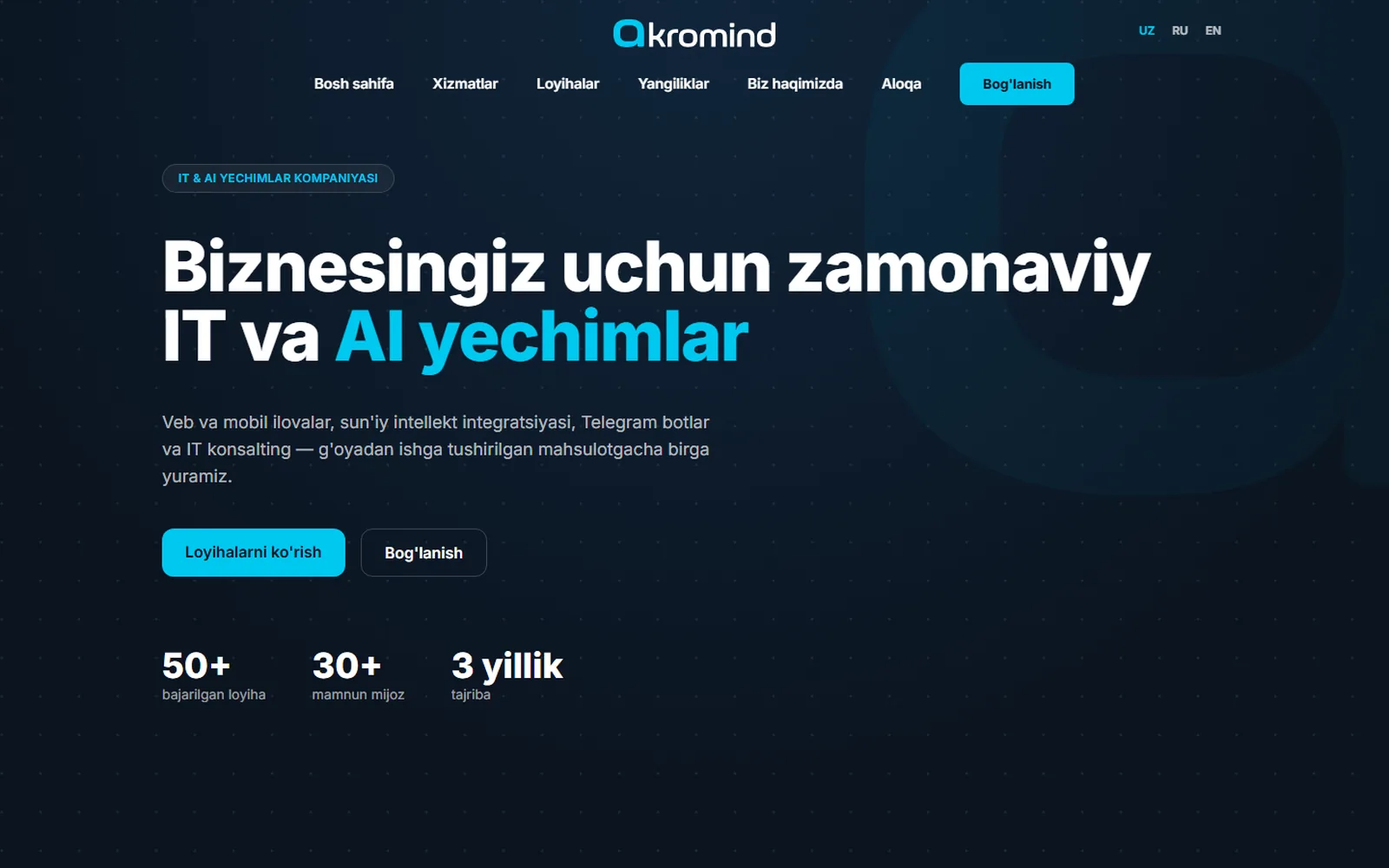
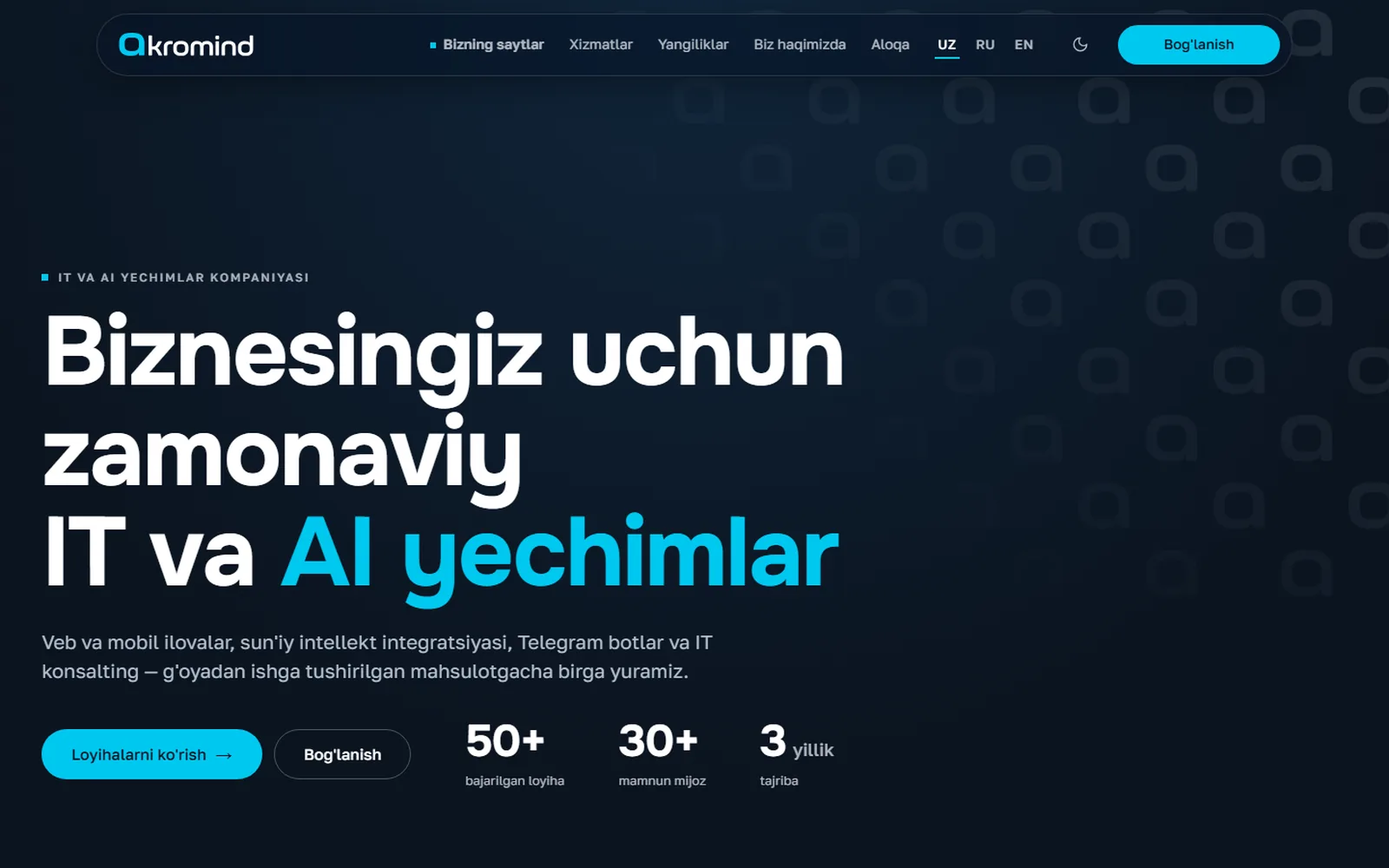
Akromind yangilandi; tugma va ikonkalar uchun Akromind uslubidagi hover animatsiyalari
- Akromind loyihasi yangi saytga moslandi (status faol, Next.js 14, 3 til, kun/tun, reestr, forma), yangi skrinshotlar
- Tugmalar: chapdan to'ldiruvchi rang, strelka siljishi, bosilganda kichrayish, magnit effekti
- Mavzu tugmasi aylanadi; menyu va footer havolalari tagiga chiziq yuguradi; xizmat va aloqa ikonkalari qimirlaydi

diff --git a/core/static/core/css/style.css b/core/static/core/css/style.css
@@ -50,6 +50,7 @@
   --font-mono: 'JetBrains Mono', ui-monospace, 'SFMono-Regular', Menlo, monospace;
   --nav-h: 92px;
   --container: 1120px;
+  --ease: cubic-bezier(0.22, 1, 0.36, 1);
 }
 
 /* ===== Asos ===== */
@@ -84,19 +85,33 @@ h1, h2, h3 { font-family: var(--font-display); line-height: 1.15; letter-spacing
 
 /* ===== Tugmalar ===== */
 .btn {
+  position: relative; isolation: isolate; overflow: hidden;
   display: inline-flex; align-items: center; justify-content: center; gap: 8px;
   min-height: 44px; padding: 10px 22px; border-radius: 999px;
   font-weight: 600; font-size: 15px; line-height: 1.2;
   border: 1px solid transparent; cursor: pointer;
-  transition: transform .2s ease, background-color .2s ease, border-color .2s ease, color .2s ease;
+  --sweep: var(--text); --sweep-ink: var(--bg);
+  transition: transform .4s var(--ease), color .35s var(--ease), border-color .3s;
 }
+/* Ustiga borganda chapdan o'ngga rang yugurib o'tadi (Akromind uslubi) */
+.btn::before {
+  content: ''; position: absolute; inset: 0; z-index: -1; background: var(--sweep);
+  transform: scaleX(0); transform-origin: left; transition: transform .45s var(--ease);
+}
+.btn:hover::before, .btn:focus-visible::before { transform: scaleX(1); }
+.btn:hover, .btn:focus-visible { color: var(--sweep-ink); }
+.btn:active { transform: scale(.97); }
+.btn[data-mag-on] { transition: transform .12s linear, color .35s var(--ease), border-color .3s; }
+.btn .arr {
+  display: inline-block; transition: transform .45s var(--ease);
+  transform: translate3d(var(--ax, 0px), var(--ay, 0px), 0);
+}
+.btn:hover .arr, .btn:focus-visible .arr { transform: translate3d(calc(4px + var(--ax, 0px)), var(--ay, 0px), 0); }
 .btn-sm { min-height: 44px; padding: 8px 18px; font-size: 14px; }
-.btn-primary { background: var(--accent); color: var(--accent-contrast); }
-.btn-primary:hover { transform: translateY(-2px); }
-.btn-outline { border-color: var(--border); background: var(--bg-elev); color: var(--text); }
-.btn-outline:hover { border-color: var(--accent); color: var(--accent); }
-.btn-ghost { color: var(--text-muted); }
-.btn-ghost:hover { color: var(--accent); }
+.btn-primary { background: var(--accent); color: var(--accent-contrast); --sweep: var(--text); --sweep-ink: var(--bg); }
+.btn-outline { border-color: var(--border); background: var(--bg-elev); color: var(--text); --sweep: var(--accent); --sweep-ink: var(--accent-contrast); }
+.btn-outline:hover, .btn-outline:focus-visible { border-color: var(--accent); }
+.btn-ghost { color: var(--text-muted); --sweep: var(--accent-soft); --sweep-ink: var(--accent); }
 
 /* ===== Navigatsiya: yuzib turuvchi kapsula (Lumarc uslubi) ===== */
 .nav { position: sticky; top: 0; z-index: 100; padding-top: 14px; pointer-events: none; }
@@ -120,11 +135,16 @@ h1, h2, h3 { font-family: var(--font-display); line-height: 1.15; letter-spacing
 @media (min-width: 1240px) { .nav-tagline { display: inline; } }
 .nav-links { display: flex; gap: 22px; font-size: 14.5px; font-weight: 500; }
 .nav-links a {
-  color: color-mix(in srgb, var(--text) 80%, transparent); padding: 5px 0; white-space: nowrap;
-  border-bottom: 2px solid transparent; transition: color .2s, border-color .2s;
+  position: relative; color: color-mix(in srgb, var(--text) 80%, transparent); padding: 5px 0; white-space: nowrap;
+  transition: color .2s;
 }
+.nav-links a::after {
+  content: ''; position: absolute; left: 0; right: 0; bottom: -1px; height: 2px; background: var(--accent);
+  transform: scaleX(0); transform-origin: left; transition: transform .4s var(--ease);
+}
+.nav-links a:hover::after, .nav-links a:focus-visible::after, .nav-links a.active::after { transform: scaleX(1); }
 .nav-links a:hover, .nav-links a:focus-visible { color: var(--accent); }
-.nav-links a.active { color: var(--text); border-bottom-color: var(--accent); font-weight: 600; }
+.nav-links a.active { color: var(--text); font-weight: 600; }
 .nav-right { display: flex; align-items: center; gap: 8px; flex-shrink: 0; }
 .nav-toggle { display: none; }
 .lang-switch.lang-switch-mobile { display: none; }
@@ -141,9 +161,10 @@ h1, h2, h3 { font-family: var(--font-display); line-height: 1.15; letter-spacing
   position: relative; width: 44px; height: 44px; border-radius: 50%;
   display: inline-flex; align-items: center; justify-content: center;
   background: transparent; border: 1px solid transparent; color: var(--text); cursor: pointer;
-  transition: background-color .2s, color .2s;
+  transition: background-color .2s, color .2s, transform .3s var(--ease);
 }
-.theme-toggle:hover { background: var(--accent-soft); color: var(--accent); }
+.theme-toggle:hover, .theme-toggle:focus-visible { background: var(--accent-soft); color: var(--accent); transform: rotate(14deg); }
+.theme-toggle:active { transform: rotate(14deg) scale(.92); }
 .theme-toggle .icon { position: absolute; width: 20px; height: 20px; transition: transform .35s ease, opacity .25s ease; }
 :root[data-theme="light"] .theme-toggle .icon-sun { opacity: 0; transform: rotate(-90deg) scale(.5); }
 :root[data-theme="light"] .theme-toggle .icon-moon { opacity: 1; transform: none; }
@@ -290,11 +311,14 @@ h1, h2, h3 { font-family: var(--font-display); line-height: 1.15; letter-spacing
   transition: border-color .25s, transform .25s, opacity .6s ease;
 }
 .service-card:hover { border-color: var(--accent); transform: translateY(-3px); }
+.service-card:active, .project-card:active, .cta-item:active, .group-cta:active { transform: scale(.985); }
 .service-icon {
   display: inline-flex; width: 44px; height: 44px; align-items: center; justify-content: center;
   border-radius: 12px; background: var(--accent-soft); color: var(--accent);
 }
+.service-icon { transition: transform .45s var(--ease), background-color .3s, color .3s; }
 .service-icon .icon { width: 24px; height: 24px; }
+.service-card:hover .service-icon { background: var(--accent); color: var(--accent-contrast); transform: rotate(-8deg) scale(1.1); }
 .service-card h3 { font-size: 19px; margin: 16px 0 8px; font-weight: 700; }
 .service-card p { color: var(--text-muted); font-size: 15px; }
 .group-cta {
@@ -356,7 +380,8 @@ h1, h2, h3 { font-family: var(--font-display); line-height: 1.15; letter-spacing
 }
 .cta-item:hover, .cta-item:focus-visible { transform: translateY(-3px); background: color-mix(in srgb, var(--accent-contrast) 22%, transparent); }
 .cta-item:focus-visible { outline-color: var(--accent-contrast); }
-.cta-item .icon { width: 26px; height: 26px; }
+.cta-item .icon { width: 26px; height: 26px; transition: transform .45s var(--ease); }
+.cta-item:hover .icon, .cta-item:focus-visible .icon { transform: scale(1.15) rotate(-8deg); }
 .cta-item-text { display: flex; flex-direction: column; min-width: 0; }
 .cta-item-text small { font-size: 12.5px; opacity: .8; }
 .cta-item-text strong { font-size: 15px; font-weight: 600; overflow-wrap: anywhere; }
@@ -373,7 +398,13 @@ h1, h2, h3 { font-family: var(--font-display); line-height: 1.15; letter-spacing
 .footer-title { font-family: var(--font-mono); font-size: 12px; letter-spacing: 1.6px; text-transform: uppercase; color: var(--text-muted); margin-bottom: 18px; }
 .footer-plain { list-style: none; display: grid; gap: 4px; }
 .footer-plain a { display: inline-block; padding: 8px 0; font-size: 15px; transition: color .2s; overflow-wrap: break-word; }
+.footer-plain a { position: relative; }
+.footer-plain a::after {
+  content: ''; position: absolute; left: 0; right: 0; bottom: 4px; height: 2px; background: var(--accent);
+  transform: scaleX(0); transform-origin: left; transition: transform .4s var(--ease);
+}
 .footer-plain a:hover, .footer-plain a:focus-visible { color: var(--accent); }
+.footer-plain a:hover::after, .footer-plain a:focus-visible::after { transform: scaleX(1); }
 .footer-location { padding: 8px 0; font-size: 14px; color: var(--text-muted); font-family: var(--font-mono); }
 .footer-social { list-style: none; }
 .footer .link-row { min-height: 52px; padding: 12px 4px; font-size: 15.5px; font-weight: 500; }
@@ -391,6 +422,7 @@ h1, h2, h3 { font-family: var(--font-display); line-height: 1.15; letter-spacing
 .link-row:focus-visible .link-row-icon, .link-row:focus-visible .link-row-arrow { color: var(--accent); }
 .link-row:hover .link-row-arrow, .link-row:focus-visible .link-row-arrow { transform: translate(3px, -3px); }
 .link-row:focus-visible { outline-offset: -2px; }
+.link-row:active { transform: scale(.99); }
 .footer-bottom { margin-top: 48px; padding-top: 24px; border-top: 1px solid var(--border); color: var(--text-muted); font-size: 14px; }
 
 /* ===== Loyihalar ro'yxati ===== */
@@ -498,7 +530,8 @@ h1, h2, h3 { font-family: var(--font-display); line-height: 1.15; letter-spacing
     transition: max-height .3s ease, visibility .3s, border-color .3s;
   }
   .nav-links.open { max-height: 520px; visibility: visible; border-color: var(--border); }
-  .nav-links a { color: var(--text); border-bottom: 0; }
+  .nav-links a { color: var(--text); }
+  .nav-links a::after { display: none; }
   .nav-links a.active { color: var(--accent); }
   .nav-links a { padding: 14px 24px; min-height: 44px; }
   /* Mobil sarlavha: bitta qator — chapda logo, o'ngda mavzu, "Menga yozing" va menyu */
@@ -618,4 +651,15 @@ h1, h2, h3 { font-family: var(--font-display); line-height: 1.15; letter-spacing
   :root { --container: 1420px; }
   .hero-name { font-size: clamp(80px, 5.4vw, 104px); }
   .section h2, .page-title { font-size: 50px; }
+}
+
+@media (hover: none) {
+  .btn::before { display: none; }
+  .btn:hover, .btn:focus-visible { color: inherit; }
+  .btn-primary:hover { color: var(--accent-contrast); }
+  .btn-outline:hover { color: var(--text); }
+}
+@media (prefers-reduced-motion: reduce) {
+  .btn::before { transition: none; }
+  .btn:hover .arr { transform: none; }
 }

diff --git a/core/static/core/js/script.js b/core/static/core/js/script.js
@@ -83,6 +83,40 @@ document.addEventListener('DOMContentLoaded', function () {
     });
   }
 
+  // Magnit effekti (Akromind uslubi): kursor tugma yaqiniga kelganda tugma va strelka kursor tomon siljiydi.
+  // Faqat sichqonchali qurilmalarda va harakatni cheklash yoqilmagan bo'lsa ishlaydi.
+  if (window.matchMedia('(hover: hover) and (pointer: fine)').matches && !reduceMotion) {
+    const magEls = Array.from(document.querySelectorAll('.btn'));
+    const clamp = (v, m) => Math.max(-m, Math.min(m, v));
+    let px = -1e4, py = -1e4, raf = 0;
+    const reset = (el) => {
+      if (!el.hasAttribute('data-mag-on')) return;
+      el.removeAttribute('data-mag-on');
+      el.style.transform = '';
+      el.style.removeProperty('--ax');
+      el.style.removeProperty('--ay');
+    };
+    const tick = () => {
+      raf = 0;
+      magEls.forEach((el) => {
+        const r = el.getBoundingClientRect();
+        const near = px > r.left - 24 && px < r.right + 24 && py > r.top - 24 && py < r.bottom + 24;
+        if (!near || r.width === 0) { reset(el); return; }
+        const dx = px - (r.left + r.width / 2);
+        const dy = py - (r.top + r.height / 2);
+        el.setAttribute('data-mag-on', '');
+        el.style.transform = `translate3d(${clamp(dx * 0.25, 8).toFixed(1)}px, ${clamp(dy * 0.35, 8).toFixed(1)}px, 0)`;
+        el.style.setProperty('--ax', `${(dx * 0.12).toFixed(1)}px`);
+        el.style.setProperty('--ay', `${(dy * 0.12).toFixed(1)}px`);
+      });
+    };
+    window.addEventListener('pointermove', (e) => {
+      px = e.clientX; py = e.clientY;
+      if (!raf) raf = requestAnimationFrame(tick);
+    }, { passive: true });
+    document.documentElement.addEventListener('mouseleave', () => { px = py = -1e4; magEls.forEach(reset); });
+  }
+
   // Scroll reveal (JS ishlamasa elementlar ko'rinaveradi — .reveal faqat JS bor paytda yashiriladi)
   const revealEls = document.querySelectorAll('.reveal');
   if (reduceMotion || !('IntersectionObserver' in window)) {

diff --git a/core/templates/core/home.html b/core/templates/core/home.html
@@ -10,7 +10,7 @@
       <p class="hero-role">{{ t.hero_role }}</p>
       <p class="hero-tagline">{{ t.hero_tagline }}</p>
       <div class="hero-actions">
-        <a href="{% url 'project_list' %}" class="btn btn-primary">{{ t.btn_projects }}<svg class="icon" aria-hidden="true"><use href="#i-arrow"/></svg></a>
+        <a href="{% url 'project_list' %}" class="btn btn-primary">{{ t.btn_projects }}<svg class="icon arr" aria-hidden="true"><use href="#i-arrow"/></svg></a>
         <a href="#contact" class="btn btn-outline">{{ t.btn_contact }}</a>
         <a href="{% static 'core/resume.pdf' %}" download="Dostonbek_Suyunov_CV.pdf" class="btn btn-ghost"><svg class="icon" aria-hidden="true"><use href="#i-download"/></svg>{{ t.btn_resume }}</a>
       </div>
@@ -79,7 +79,7 @@
     </div>
     {% endif %}
 
-    <p class="center reveal"><a href="{% url 'project_list' %}" class="btn btn-outline">{{ t.all_projects }} ({{ stats.projects }})<svg class="icon" aria-hidden="true"><use href="#i-arrow"/></svg></a></p>
+    <p class="center reveal"><a href="{% url 'project_list' %}" class="btn btn-outline">{{ t.all_projects }} ({{ stats.projects }})<svg class="icon arr" aria-hidden="true"><use href="#i-arrow"/></svg></a></p>
   </div>
 </section>
 
@@ -116,7 +116,7 @@
     <a href="{{ contact.group }}" target="_blank" rel="noopener noreferrer" class="group-cta reveal">
       <span class="group-cta-icon"><svg class="icon" aria-hidden="true"><use href="#i-users"/></svg></span>
       <span class="group-cta-text"><strong>{{ t.group_title }}</strong><span>{{ t.group_desc }}</span></span>
-      <span class="btn btn-primary btn-sm">{{ t.group_btn }}<svg class="icon" aria-hidden="true"><use href="#i-external"/></svg></span>
+      <span class="btn btn-primary btn-sm">{{ t.group_btn }}<svg class="icon arr" aria-hidden="true"><use href="#i-external"/></svg></span>
     </a>
   </div>
 </section>

diff --git a/core/templates/core/project_detail.html b/core/templates/core/project_detail.html
@@ -21,7 +21,7 @@
 
     <div class="case-actions">
       {% if project.show_links %}
-        {% if project.live_url %}<a class="btn btn-primary" href="{{ project.live_url }}" target="_blank" rel="noopener noreferrer">{{ t.link_live }}<svg class="icon" aria-hidden="true"><use href="#i-external"/></svg></a>{% endif %}
+        {% if project.live_url %}<a class="btn btn-primary" href="{{ project.live_url }}" target="_blank" rel="noopener noreferrer">{{ t.link_live }}<svg class="icon arr" aria-hidden="true"><use href="#i-external"/></svg></a>{% endif %}
         {% if project.telegram_url %}<a class="btn btn-primary" href="{{ project.telegram_url }}" target="_blank" rel="noopener noreferrer"><svg class="icon" aria-hidden="true"><use href="#i-telegram"/></svg>{{ t.link_telegram }}</a>{% endif %}
         {% if project.github_url %}<a class="btn btn-outline" href="{{ project.github_url }}" target="_blank" rel="noopener noreferrer"><svg class="icon" aria-hidden="true"><use href="#i-github"/></svg>{{ t.link_github }}</a>{% endif %}
       {% endif %}

diff --git a/scripts/projects_data.py b/scripts/projects_data.py
@@ -142,14 +142,14 @@ PROJECTS = [
     ),
     dict(
         pk=5, slug='akromind', title='Akromind', kind=LUMARC, order=50, featured=True,
-        categories='web', year_start=2026, ongoing=True, status='in_development',
+        categories='web', year_start=2026, ongoing=True, status='live',
         live_url='https://akromind.uz',
-        stack='Next.js, React, TypeScript, Tailwind CSS, Docker',
+        stack='Next.js 14, React 18, TypeScript, Tailwind CSS, Docker',
         role=("Fullstack dasturchi", "Fullstack-разработчик", "Fullstack Developer"),
         short=(
-            "IT va AI yechimlari kompaniyasining veb-sayti: xizmatlar, portfolio, maqolalar va aloqa.",
-            "Сайт компании IT- и AI-решений: услуги, портфолио, статьи и контакты.",
-            "Website of an IT and AI solutions company: services, portfolio, articles and contact.",
+            "IT va AI yechimlari kompaniyasining veb-sayti: xizmatlar, loyihalar reestri, yangiliklar va aloqa; uch tilda, kunduzgi va tungi rejimda.",
+            "Сайт компании IT- и AI-решений: услуги, реестр проектов, новости и контакты; на трёх языках, с дневным и ночным режимом.",
+            "Website of an IT and AI solutions company: services, a project registry, news and contact; in three languages with day and night themes.",
         ),
         problem=(
             "Kompaniyaga xizmat va loyihalarini bir joyda taqdim etuvchi, oson kengaytiriladigan sayt kerak edi.",
@@ -157,19 +157,19 @@ PROJECTS = [
             "The company needed an easily extendable site presenting its services and projects in one place.",
         ),
         solution=(
-            "Sayt Next.js va TypeScript asosida ishlab chiqilgan. Xizmatlar: veb va mobil ilovalar, AI/LLM integratsiyasi, Telegram botlar, IT konsalting. Yangi loyiha bitta ma'lumot faylidagi yozuv orqali qo'shiladi.",
-            "Сайт разработан на Next.js и TypeScript. Услуги: веб- и мобильные приложения, интеграция AI/LLM, Telegram-боты, IT-консалтинг. Новый проект добавляется одной записью в файле данных.",
-            "The site is built with Next.js and TypeScript. Services: web and mobile apps, AI/LLM integration, Telegram bots, IT consulting. A new project is added with a single entry in a data file.",
+            "Sayt Next.js (App Router) va TypeScript asosida ishlab chiqilgan. Unda 6 yoʻnalishdagi xizmatlar, kompaniya saytlari reestri, yangiliklar boʻlimi, shisha kapsula koʻrinishidagi menyu (joriy boʻlimni koʻrsatadi) va aloqa formasi mavjud. Forma server tomonda tekshiriladi va avtomatik soʻrovlardan himoyalangan. Loyiha va xizmatlar ma'lumot fayllaridan shakllanadi.",
+            "Сайт разработан на Next.js (App Router) и TypeScript. На нём представлены услуги по шести направлениям, реестр сайтов компании, раздел новостей, меню в виде стеклянной капсулы (показывает текущий раздел) и форма обратной связи. Форма проверяется на сервере и защищена от автоматических запросов. Проекты и услуги формируются из файлов данных.",
+            "The site is built with Next.js (App Router) and TypeScript. It includes services in six areas, a registry of the company's sites, a news section, a glass-capsule menu (showing the current section) and a contact form. The form is validated on the server and protected against automated requests. Projects and services are generated from data files.",
         ),
         result=(
-            "Sayt ishlab chiqilmoqda va akromind.uz manzilida mavjud.",
-            "Сайт находится в разработке и доступен по адресу akromind.uz.",
-            "The site is in development and available at akromind.uz.",
+            "Sayt akromind.uz manzilida ishlamoqda (uz, ru, en; kunduzgi va tungi rejim).",
+            "Сайт работает на akromind.uz (uz, ru, en; дневной и ночной режим).",
+            "The site runs at akromind.uz (uz, ru, en; day and night themes).",
         ),
         highlights=(
-            ["Next.js, TypeScript, Tailwind CSS", "Portfolio va xizmatlar ma'lumot fayllaridan shakllanadi", "Loyiha sahifalari /loyihalar/<slug> manzilida", "Docker orqali ishga tushiriladi"],
-            ["Next.js, TypeScript, Tailwind CSS", "Портфолио и услуги формируются из файлов данных", "Страницы проектов по адресу /loyihalar/<slug>", "Запуск через Docker"],
-            ["Next.js, TypeScript, Tailwind CSS", "Portfolio and services are generated from data files", "Project pages at /loyihalar/<slug>", "Runs through Docker"],
+            ["Next.js 14, TypeScript, Tailwind CSS", "Uch til (uz, ru, en), kunduzgi va tungi rejim", "Loyihalar reestri va yangiliklar boʻlimi", "Aloqa formasi: server tomonda tekshiruv, avtomatik soʻrovlardan himoya", "Docker (standalone) orqali ishga tushiriladi"],
+            ["Next.js 14, TypeScript, Tailwind CSS", "Три языка (uz, ru, en), дневной и ночной режим", "Реестр проектов и раздел новостей", "Форма обратной связи: проверка на сервере, защита от автоматических запросов", "Запуск через Docker (standalone)"],
+            ["Next.js 14, TypeScript, Tailwind CSS", "Three languages (uz, ru, en), day and night themes", "Project registry and a news section", "Contact form: server-side validation, protection against automated requests", "Runs through Docker (standalone)"],
         ),
     ),
     # ------------------------------------------------------------ BOTLAR (shaxsiy)

diff --git a/scripts/build_screens.py b/scripts/build_screens.py
@@ -17,7 +17,6 @@ PROJECTS = ROOT / 'core' / 'static' / 'core' / 'projects'
 
 LIVE = {
     'lumarcos': [('https://lumarcos.uz', 1440, 900), ('https://lumarcos.uz', 390, 844)],
-    'akromind': [('https://akromind.uz', 1440, 900), ('https://akromind.uz', 390, 844)],
     'lumarcode': [('https://akromin.uz', 1440, 900)],
     'bahober': [('https://bahober.uz', 1440, 900), ('https://bahober.uz', 390, 844)],
     'lumarc-sayt': [('https://lumarc.uz', 1440, 900), ('https://lumarc.uz', 390, 844)],
@@ -49,6 +48,28 @@ def phone_frame(shot):
     ImageDraw.Draw(canvas).rounded_rectangle((x - 12, y - 12, x + width + 12, y + height + 12), radius=46, fill='#1d2a3d')
     canvas.paste(shot, (x, y), mask)
     return canvas
+
+
+AKROMIND = 'https://akromind.uz'
+
+
+def capture_akromind(browser):
+    """Akromind: bosh sahifa (kunduzgi va tungi rejim), loyihalar sahifasi va mobil ko'rinish."""
+    images = []
+    shots = [('/', 1440, 900, 'light'), ('/', 1440, 900, 'dark'), ('/loyihalar', 1440, 900, 'light'), ('/', 390, 844, 'light')]
+    for path, w, h, mode in shots:
+        ctx = browser.new_context(viewport={'width': w, 'height': h}, reduced_motion='reduce')
+        ctx.add_init_script(f"try{{localStorage.setItem('akromind-mode','{mode}')}}catch(e){{}}")
+        page = ctx.new_page()
+        try:
+            page.goto(AKROMIND + path, wait_until='domcontentloaded', timeout=45000)
+            page.wait_for_timeout(4500)
+            raw = Image.open(io.BytesIO(page.screenshot(type='png')))
+            images.append(phone_frame(raw) if w < 600 else fit(raw))
+        except Exception as exc:
+            print(f'  ! {AKROMIND}{path} ({w}px, {mode}): {type(exc).__name__}')
+        ctx.close()
+    return images
 
 
 def capture_stroy(browser):
@@ -195,13 +216,15 @@ def main():
     with sync_playwright() as p:
         browser = p.chromium.launch()
         results = {}
-        slugs = set(LIVE) | set(MOCKUPS) | set(DIAGRAMS) | {'uzstroymarket'}
+        slugs = set(LIVE) | set(MOCKUPS) | set(DIAGRAMS) | {'uzstroymarket', 'akromind'}
         for slug in sorted(slugs):
             if args.only and slug != args.only:
                 continue
             images = []
             if slug == 'uzstroymarket':
                 images += capture_stroy(browser)
+            if slug == 'akromind':
+                images += capture_akromind(browser)
             for url, w, h in LIVE.get(slug, []):
                 ctx = browser.new_context(viewport={'width': w, 'height': h}, reduced_motion='reduce')
                 page = ctx.new_page()

diff --git a/core/tests.py b/core/tests.py
@@ -685,3 +685,30 @@ class SectionLabelTests(PortfolioTestCase):
             self.assertIn(label, body)
         self.assertIn('02 — Портфолио', self.client.get('/?lang=ru').content.decode())
         self.assertIn('06 — Contact', self.client.get('/?lang=en').content.decode())
+
+
+class AkromindAndInteractionTests(PortfolioTestCase):
+    def test_akromind_reflects_the_updated_site(self):
+        project = Project.objects.get(slug='akromind')
+        self.assertEqual(project.status, 'live')
+        self.assertEqual(project.live_url, 'https://akromind.uz')
+        self.assertIn('Next.js 14', project.stack)
+        body = self.client.get('/projects/akromind/?lang=en').content.decode()
+        for fact in ('Three languages', 'project registry', 'contact form', 'news'):
+            self.assertIn(fact, body)
+        self.assertEqual(len(project.gallery_list), 4)
+
+    def test_buttons_use_sweep_hover_and_magnet(self):
+        css = (Path(__file__).resolve().parent / 'static' / 'core' / 'css' / 'style.css').read_text(encoding='utf-8')
+        js = (Path(__file__).resolve().parent / 'static' / 'core' / 'js' / 'script.js').read_text(encoding='utf-8')
+        self.assertIn('.btn::before', css)
+        self.assertIn('transform: scaleX(0)', css)
+        self.assertIn('.btn:active', css)
+        self.assertIn('.theme-toggle:hover', css)
+        self.assertIn('rotate(14deg)', css)
+        self.assertIn('data-mag-on', js)
+        self.assertIn('(hover: hover) and (pointer: fine)', js)
+
+    def test_arrow_buttons_have_sliding_arrow_class(self):
+        body = self.client.get('/').content.decode()
+        self.assertIn('class="icon arr"', body)

diff --git a/CLAUDE.md b/CLAUDE.md
@@ -1,7 +1,7 @@
 # CLAUDE.md — portfolio (Django 5.2)
 
 ## Buyruqlar
-- Test: `python manage.py test` (98 ta; `projects` fixture'ini ishlatadi) · Tekshiruv: `python manage.py check`
+- Test: `python manage.py test` (101 ta; `projects` fixture'ini ishlatadi) · Tekshiruv: `python manage.py check`
 - Lokal: `python manage.py migrate && python manage.py loaddata projects && python manage.py runserver 8010`
 - Prod-ga o'xshash tekshiruv: `DEBUG=False SECURE_SSL_REDIRECT=False python manage.py collectstatic --noinput` so'ng runserver
 - Havolalar: `python scripts/check_links.py http://127.0.0.1:8010`
